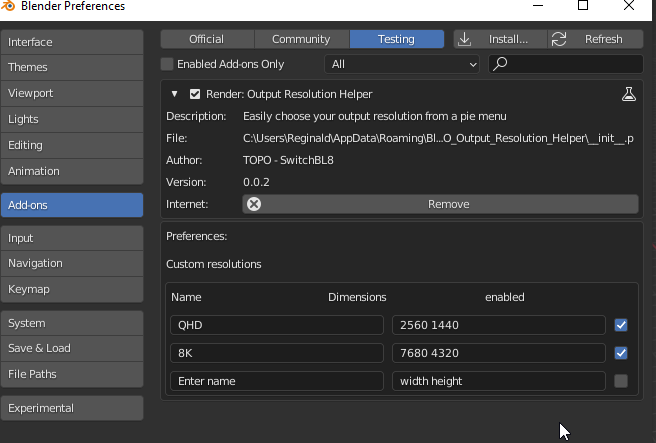
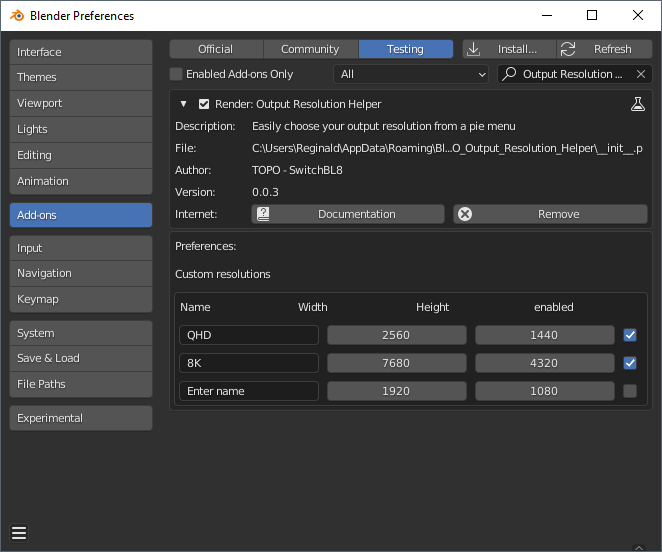
Aligned the preference columns with their headings

diff --git a/preferences.py b/preferences.py
@@ -29,27 +29,35 @@ class TOPO_Preferences(bpy.types.AddonPreferences):
         layout.label(text='Custom resolutions')
         box = layout.box()
         row = box.row()
-        col = row.column(align=True)
-        col.label(text="Name")
-        col = row.column(align=True)
-        col.label(text="Width")
-        col = row.column(align=True)
-        col.label(text="Height")
-        col = row.column(align=True)
+        split1 = row.split(factor=0.9)
+        split2 = split1.split(factor=0.66)
+        split3 = split2.split(factor=0.5)
+        split4 = split3.split(factor=1)
+        col = split1.column()
         col.label(text="enabled")
+        col = split2.column()
+        col.label(text="Height")
+        col = split3.column()
+        col.label(text="Width")
+        col = split4.column()
+        col.label(text="Name")
         # always add empty row?
         if "" not in self.custom_resolutions or len(self.custom_resolutions) == 0:
             self.custom_resolutions.add()
         for cr in self.custom_resolutions:
             row = box.row()
-            col = row.column(align=True)
-            col.prop(cr, 'name')
-            col = row.column(align=True)
-            col.prop(cr, 'width')
-            col = row.column(align=True)
-            col.prop(cr, 'height')
-            col = row.column(align=True)
+            split1 = row.split(factor=0.9)
+            split2 = split1.split(factor=0.66)
+            split3 = split2.split(factor=0.5)
+            split4 = split3.split(factor=1)
+            col = split1.column()
             col.prop(cr, 'enabled')
+            col = split2.column()
+            col.prop(cr, 'height')
+            col = split3.column()
+            col.prop(cr, 'width')
+            col = split4.column()
+            col.prop(cr, 'name')
 
 
 classes = (

diff --git a/__init__.py b/__init__.py
@@ -45,8 +45,8 @@ class TOPO_MT_chooseoutputresolution(Menu):
     bl_label = "Choose Output Resolution"
     bl_idname = "TOPO_MT_chooseoutputresolution"
 
-    reso_names = ["FullHD", "TikTok", "4K", "2K"]
-    reso_dims = ["1920 1080", "1080 1920", "3840 2160", "2048 1024" ]
+    reso_names = ["FullHD", "TikTok", "UHD 4K", "2K"]
+    reso_dims = ["1920 1080", "1080 1920", "3840 2160", "2048 1024"]
 
     def draw(self, context):
         addon_preferences = preferences.get_addon_preferences()
@@ -70,7 +70,7 @@ class TOPO_MT_chooseoutputresolution(Menu):
             label = self.reso_names[index]
             param = self.reso_dims[index] + " " + label
             # Add TOPO_OT_setresolution for each menu option, with different paramters
-            pie.operator("TOPO_OT_setresolution", text=label).reso = param
+            pie.operator("TOPO_OT_setresolution", text=label, ).reso = param
 
 
 # this CLASS is what you can search for/execute from a keymap
